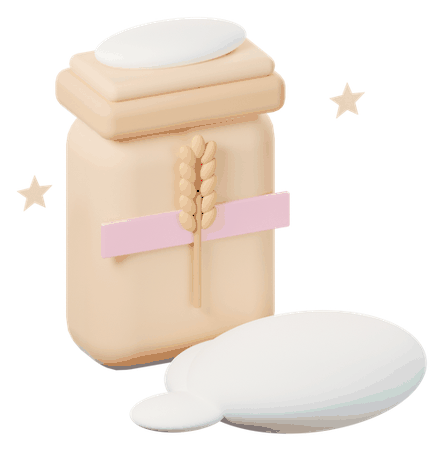
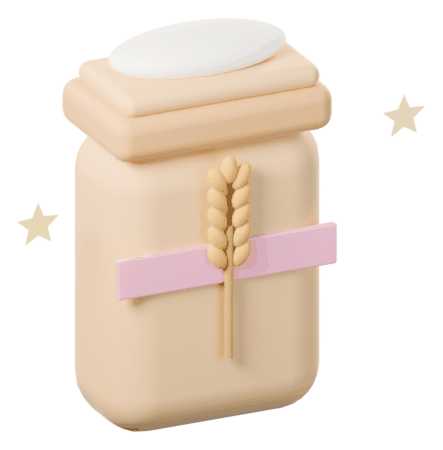
Deploy Unicorn Cafe kid PWA v3.2 (daughter-game fa4e4d8, app/ only; voice-pick + voice-samples excluded)
Claude-Session: https://claude.ai/code/session_01SM53C2WUtb14j3EsNJU8p6

diff --git a/sw.js b/sw.js
@@ -1,5 +1,4 @@
-const VERSION='unicorn-cafe-art-69fd3751b2-pages';
-const PRECACHE = ["CREDITS.md", "art/basket.png", "art/basket_full.png", "art/bg_cafe.png", "art/bg_closing.png", "art/bg_kitchen.png", "art/bg_kitchen_nopan.png", "art/bg_market.png", "art/bg_serve.png", "art/bg_ticket.png", "art/bg_till.png", "art/characters.manifest.json", "art/coin.png", "art/coin_10c.png", "art/coin_25c.png", "art/coin_5c.png", "art/coin_s.png", "art/dish_bun.png", "art/dish_butter.png", "art/dish_can.png", "art/dish_cob.png", "art/dish_cup.png", "art/dish_dip.png", "art/dish_flatbread.png", "art/dish_fruit_salad.png", "art/dish_ham.png", "art/dish_jam.png", "art/dish_mug.png", "art/dish_nut.png", "art/dish_pan.png", "art/dish_pancakes.png", "art/dish_pizza.png", "art/dish_popcorn.png", "art/dish_pot.png", "art/dish_tin.png", "art/dog.manifest.json", "art/dog_sleep_00.png", "art/dog_sleep_01.png", "art/dog_sleep_02.png", "art/dog_sleep_03.png", "art/dog_sleep_04.png", "art/dog_sleep_05.png", "art/dog_sleep_06.png", "art/dog_sleep_07.png", "art/dog_sleep_08.png", "art/dog_sleep_09.png", "art/dog_sleep_10.png", "art/dog_sleep_11.png", "art/dog_wag_00.png", "art/dog_wag_01.png", "art/dog_wag_02.png", "art/dog_wag_03.png", "art/dog_wag_04.png", "art/dog_wag_05.png", "art/dog_wag_06.png", "art/dog_wag_07.png", "art/dog_wag_08.png", "art/dog_wag_09.png", "art/dog_wag_10.png", "art/dog_wag_11.png", "art/dog_wake_00.png", "art/dog_wake_01.png", "art/dog_wake_02.png", "art/dog_wake_03.png", "art/dog_wake_04.png", "art/dog_wake_05.png", "art/dog_wake_06.png", "art/dog_wake_07.png", "art/dog_walk_00.png", "art/dog_walk_01.png", "art/dog_walk_02.png", "art/dog_walk_03.png", "art/dog_walk_04.png", "art/dog_walk_05.png", "art/dog_walk_06.png", "art/dog_walk_07.png", "art/dog_walk_08.png", "art/dog_walk_09.png", "art/dog_walk_10.png", "art/dog_walk_11.png", "art/dog_walk_12.png", "art/dog_walk_13.png", "art/dog_walk_14.png", "art/dog_walk_15.png", "art/girl_cheer_00.png", "art/girl_cheer_01.png", "art/girl_cheer_02.png", "art/girl_cheer_03.png", "art/girl_cheer_04.png", "art/girl_cheer_05.png", "art/girl_cheer_06.png", "art/girl_cheer_07.png", "art/girl_cheer_08.png", "art/girl_cheer_09.png", "art/girl_cheer_10.png", "art/girl_cheer_11.png", "art/girl_idle_00.png", "art/girl_idle_01.png", "art/girl_idle_02.png", "art/girl_idle_03.png", "art/girl_idle_04.png", "art/girl_idle_05.png", "art/girl_idle_06.png", "art/girl_idle_07.png", "art/girl_idle_08.png", "art/girl_idle_09.png", "art/girl_idle_10.png", "art/girl_idle_11.png", "art/girl_stir_00.png", "art/girl_stir_01.png", "art/girl_stir_02.png", "art/girl_stir_03.png", "art/girl_stir_04.png", "art/girl_stir_05.png", "art/girl_stir_06.png", "art/girl_stir_07.png", "art/girl_stir_08.png", "art/girl_stir_09.png", "art/girl_stir_10.png", "art/girl_stir_11.png", "art/girl_think_00.png", "art/girl_think_01.png", "art/girl_think_02.png", "art/girl_think_03.png", "art/girl_think_04.png", "art/girl_think_05.png", "art/girl_wave_00.png", "art/girl_wave_01.png", "art/girl_wave_02.png", "art/girl_wave_03.png", "art/girl_wave_04.png", "art/girl_wave_05.png", "art/girl_wave_06.png", "art/girl_wave_07.png", "art/girl_wave_08.png", "art/girl_wave_09.png", "art/girl_wave_10.png", "art/girl_wave_11.png", "art/item_bun.png", "art/item_can.png", "art/item_cob.png", "art/item_cup.png", "art/item_dip.png", "art/item_ham.png", "art/item_jam.png", "art/item_mug.png", "art/item_nut.png", "art/item_pan.png", "art/item_pot.png", "art/item_tin.png", "art/key_animal_a.png", "art/key_animal_b.png", "art/key_animal_c.png", "art/key_animal_c2.png", "art/key_animal_d.png", "art/key_animal_e.png", "art/key_animal_f.png", "art/key_animal_g.png", "art/kitty_happy_00.png", "art/kitty_happy_01.png", "art/kitty_happy_02.png", "art/kitty_happy_03.png", "art/kitty_happy_04.png", "art/kitty_happy_05.png", "art/kitty_happy_06.png", "art/kitty_happy_07.png", "art/kitty_happy_08.png", "art/kitty_happy_09.png", "art/kitty_happy_10.png", "art/kitty_happy_11.png", "art/kitty_idle_00.png", "art/kitty_idle_01.png", "art/kitty_idle_02.png", "art/kitty_idle_03.png", "art/kitty_idle_04.png", "art/kitty_idle_05.png", "art/kitty_idle_06.png", "art/kitty_idle_07.png", "art/kitty_idle_08.png", "art/kitty_idle_09.png", "art/kitty_idle_10.png", "art/kitty_idle_11.png", "art/kitty_order_00.png", "art/kitty_order_01.png", "art/kitty_order_02.png", "art/kitty_order_03.png", "art/kitty_order_04.png", "art/kitty_order_05.png", "art/kitty_walk_00.png", "art/kitty_walk_01.png", "art/kitty_walk_02.png", "art/kitty_walk_03.png", "art/kitty_walk_04.png", "art/kitty_walk_05.png", "art/kitty_walk_06.png", "art/kitty_walk_07.png", "art/kitty_walk_08.png", "art/kitty_walk_09.png", "art/kitty_walk_10.png", "art/kitty_walk_11.png", "art/kitty_walk_12.png", "art/kitty_walk_13.png", "art/kitty_walk_14.png", "art/kitty_walk_15.png", "art/pan.png", "art/pan_cooking_00.png", "art/pan_cooking_01.png", "art/pan_cooking_02.png", "art/pan_cooking_03.png", "art/pan_cooking_04.png", "art/pan_cooking_05.png", "art/pan_cooking_06.png", "art/pan_cooking_07.png", "art/pat_banana.png", "art/pat_cookie.png", "art/pat_cupcake.png", "art/pat_grape.png", "art/pat_strawberry.png", "art/piano.manifest.json", "art/piano_body.png", "art/pic_bag.png", "art/pic_bed.png", "art/pic_bell.png", "art/pic_bird.png", "art/pic_book.png", "art/pic_box.png", "art/pic_bread.png", "art/pic_cake.png", "art/pic_cap.png", "art/pic_chair.png", "art/pic_chip.png", "art/pic_cod.png", "art/pic_cone.png", "art/pic_cook.png", "art/pic_corn.png", "art/pic_cow.png", "art/pic_cream.png", "art/pic_crisp.png", "art/pic_cube.png", "art/pic_dinner.png", "art/pic_dish.png", "art/pic_dot.png", "art/pic_drink.png", "art/pic_ear.png", "art/pic_egg.png", "art/pic_feet.png", "art/pic_fig.png", "art/pic_fish.png", "art/pic_flour.png", "art/pic_fork.png", "art/pic_hair.png", "art/pic_hat.png", "art/pic_hill.png", "art/pic_ice.png", "art/pic_jar.png", "art/pic_jug.png", "art/pic_king.png", "art/pic_lake.png", "art/pic_lemon.png", "art/pic_lid.png", "art/pic_lunch.png", "art/pic_map.png", "art/pic_mat.png", "art/pic_milk.png", "art/pic_mint.png", "art/pic_moon.png", "art/pic_moth.png", "art/pic_napkin.png", "art/pic_net.png", "art/pic_oats.png", "art/pic_oil.png", "art/pic_pie.png", "art/pic_pig.png", "art/pic_plum.png", "art/pic_rain.png", "art/pic_rat.png", "art/pic_ring.png", "art/pic_rug.png", "art/pic_salt.png", "art/pic_sandwich.png", "art/pic_seed.png", "art/pic_ship.png", "art/pic_shop.png", "art/pic_sock.png", "art/pic_soup.png", "art/pic_stew.png", "art/pic_straw.png", "art/pic_sugar.png", "art/pic_sun.png", "art/pic_sweets.png", "art/pic_tail.png", "art/pic_tap.png", "art/pic_tart.png", "art/pic_tea.png", "art/pic_toast.png", "art/pic_toy.png", "art/pic_tray.png", "art/pic_van.png", "art/pic_water.png", "art/pic_whisk.png", "art/pic_yam.png", "art/pic_yeast.png", "art/pic_zip.png", "art/pictures.manifest.json", "art/plate.png", "art/princess_happy_00.png", "art/princess_happy_01.png", "art/princess_happy_02.png", "art/princess_happy_03.png", "art/princess_happy_04.png", "art/princess_happy_05.png", "art/princess_happy_06.png", "art/princess_happy_07.png", "art/princess_happy_08.png", "art/princess_happy_09.png", "art/princess_happy_10.png", "art/princess_happy_11.png", "art/princess_idle_00.png", "art/princess_idle_01.png", "art/princess_idle_02.png", "art/princess_idle_03.png", "art/princess_idle_04.png", "art/princess_idle_05.png", "art/princess_idle_06.png", "art/princess_idle_07.png", "art/princess_idle_08.png", "art/princess_idle_09.png", "art/princess_idle_10.png", "art/princess_idle_11.png", "art/princess_order_00.png", "art/princess_order_01.png", "art/princess_order_02.png", "art/princess_order_03.png", "art/princess_order_04.png", "art/princess_order_05.png", "art/princess_walk_00.png", "art/princess_walk_01.png", "art/princess_walk_02.png", "art/princess_walk_03.png", "art/princess_walk_04.png", "art/princess_walk_05.png", "art/princess_walk_06.png", "art/princess_walk_07.png", "art/princess_walk_08.png", "art/princess_walk_09.png", "art/princess_walk_10.png", "art/princess_walk_11.png", "art/princess_walk_12.png", "art/princess_walk_13.png", "art/princess_walk_14.png", "art/princess_walk_15.png", "art/props.manifest.json", "art/sets.manifest.json", "art/spoon.png", "art/sticker_00.png", "art/sticker_01.png", "art/sticker_02.png", "art/sticker_03.png", "art/sticker_04.png", "art/sticker_05.png", "art/sticker_06.png", "art/sticker_07.png", "art/sticker_08.png", "art/sticker_09.png", "art/sticker_10.png", "art/sticker_11.png", "art/tenframe_crate.png", "art/ui_back.png", "art/ui_check.png", "art/ui_music.png", "art/ui_music_off.png", "art/ui_settings.png", "art/ui_undo.png", "art/unicorn_happy_00.png", "art/unicorn_happy_01.png", "art/unicorn_happy_02.png", "art/unicorn_happy_03.png", "art/unicorn_happy_04.png", "art/unicorn_happy_05.png", "art/unicorn_happy_06.png", "art/unicorn_happy_07.png", "art/unicorn_happy_08.png", "art/unicorn_happy_09.png", "art/unicorn_happy_10.png", "art/unicorn_happy_11.png", "art/unicorn_idle_00.png", "art/unicorn_idle_01.png", "art/unicorn_idle_02.png", "art/unicorn_idle_03.png", "art/unicorn_idle_04.png", "art/unicorn_idle_05.png", "art/unicorn_idle_06.png", "art/unicorn_idle_07.png", "art/unicorn_idle_08.png", "art/unicorn_idle_09.png", "art/unicorn_idle_10.png", "art/unicorn_idle_11.png", "art/unicorn_order_00.png", "art/unicorn_order_01.png", "art/unicorn_order_02.png", "art/unicorn_order_03.png", "art/unicorn_order_04.png", "art/unicorn_order_05.png", "art/unicorn_walk_00.png", "art/unicorn_walk_01.png", "art/unicorn_walk_02.png", "art/unicorn_walk_03.png", "art/unicorn_walk_04.png", "art/unicorn_walk_05.png", "art/unicorn_walk_06.png", "art/unicorn_walk_07.png", "art/unicorn_walk_08.png", "art/unicorn_walk_09.png", "art/unicorn_walk_10.png", "art/unicorn_walk_11.png", "art/unicorn_walk_12.png", "art/unicorn_walk_13.png", "art/unicorn_walk_14.png", "art/unicorn_walk_15.png", "assets/basket.svg", "assets/book.svg", "assets/bun.svg", "assets/cafe_bg.svg", "assets/can.svg", "assets/chef_girl.svg", "assets/cob.svg", "assets/coin.svg", "assets/cup.svg", "assets/dip.svg", "assets/ham.svg", "assets/icon.png", "assets/jam.svg", "assets/kitchen_bg.svg", "assets/market_bg.svg", "assets/mug.svg", "assets/nut.svg", "assets/pan.svg", "assets/plate.svg", "assets/pot.svg", "assets/sparkle.svg", "assets/spoon.svg", "assets/tin.svg", "assets/trace_bg.svg", "assets/unicorn.svg", "audio/back.mp3", "audio/bell.mp3", "audio/cheer.mp3", "audio/coin.mp3", "audio/piano/A3.mp3", "audio/piano/A4.mp3", "audio/piano/As3.mp3", "audio/piano/As4.mp3", "audio/piano/B3.mp3", "audio/piano/B4.mp3", "audio/piano/C3.mp3", "audio/piano/C4.mp3", "audio/piano/C5.mp3", "audio/piano/Cs3.mp3", "audio/piano/Cs4.mp3", "audio/piano/D3.mp3", "audio/piano/D4.mp3", "audio/piano/Ds3.mp3", "audio/piano/Ds4.mp3", "audio/piano/E3.mp3", "audio/piano/E4.mp3", "audio/piano/F3.mp3", "audio/piano/F4.mp3", "audio/piano/Fs3.mp3", "audio/piano/Fs4.mp3", "audio/piano/G3.mp3", "audio/piano/G4.mp3", "audio/piano/Gs3.mp3", "audio/piano/Gs4.mp3", "audio/plop.mp3", "audio/select.mp3", "audio/sizzle.mp3", "audio/sparkle.mp3", "audio/tap.mp3", "audio/voice/add_one_more.mp3", "audio/voice/altogether.mp3", "audio/voice/animal_alligator.mp3", "audio/voice/animal_bear.mp3", "audio/voice/animal_cat.mp3", "audio/voice/animal_chick.mp3", "audio/voice/animal_duck.mp3", "audio/voice/animal_elephant.mp3", "audio/voice/animal_frog.mp3", "audio/voice/animal_goat.mp3", "audio/voice/another_way.mp3", "audio/voice/beat_intro.mp3", "audio/voice/blend_q.mp3", "audio/voice/buddy_ate.mp3", "audio/voice/buddy_cooking.mp3", "audio/voice/buddy_follow.mp3", "audio/voice/buddy_good.mp3", "audio/voice/buddy_happy.mp3", "audio/voice/buddy_nap.mp3", "audio/voice/buddy_night.mp3", "audio/voice/buddy_shh.mp3", "audio/voice/buddy_woof.mp3", "audio/voice/c_and.mp3", "audio/voice/c_cent_coin.mp3", "audio/voice/c_cents.mp3", "audio/voice/c_coin.mp3", "audio/voice/c_coins.mp3", "audio/voice/c_foodcosts.mp3", "audio/voice/c_itcosts.mp3", "audio/voice/c_more.mp3", "audio/voice/c_please.mp3", "audio/voice/c_putin.mp3", "audio/voice/c_rhymes.mp3", "audio/voice/c_scoop.mp3", "audio/voice/c_scoops.mp3", "audio/voice/c_tapletter.mp3", "audio/voice/c_tapword.mp3", "audio/voice/c_use.mp3", "audio/voice/c_weneed.mp3", "audio/voice/c_youhave.mp3", "audio/voice/card_intro.mp3", "audio/voice/cmp_fewer.mp3", "audio/voice/cmp_more.mp3", "audio/voice/cmp_same.mp3", "audio/voice/coin_tap.mp3", "audio/voice/compose_q.mp3", "audio/voice/cook_intro.mp3", "audio/voice/count_intro.mp3", "audio/voice/demo.mp3", "audio/voice/drag_pan.mp3", "audio/voice/drag_pan_first.mp3", "audio/voice/flash_q.mp3", "audio/voice/follow_intro.mp3", "audio/voice/free_intro.mp3", "audio/voice/give_change.mp3", "audio/voice/hide_q.mp3", "audio/voice/highlow_q.mp3", "audio/voice/hint_count.mp3", "audio/voice/hint_pay.mp3", "audio/voice/how_many.mp3", "audio/voice/item_bun.mp3", "audio/voice/item_can.mp3", "audio/voice/item_cob.mp3", "audio/voice/item_cup.mp3", "audio/voice/item_dip.mp3", "audio/voice/item_ham.mp3", "audio/voice/item_jam.mp3", "audio/voice/item_mug.mp3", "audio/voice/item_nut.mp3", "audio/voice/item_pan.mp3", "audio/voice/item_pot.mp3", "audio/voice/item_tin.mp3", "audio/voice/items_bun.mp3", "audio/voice/items_can.mp3", "audio/voice/items_cob.mp3", "audio/voice/items_cup.mp3", "audio/voice/items_dip.mp3", "audio/voice/items_ham.mp3", "audio/voice/items_jam.mp3", "audio/voice/items_mug.mp3", "audio/voice/items_nut.mp3", "audio/voice/items_pan.mp3", "audio/voice/items_pot.mp3", "audio/voice/items_tin.mp3", "audio/voice/kitchen_tap.mp3", "audio/voice/kitchen_word.mp3", "audio/voice/lines.json", "audio/voice/list.mp3", "audio/voice/lovely.mp3", "audio/voice/manifest.json", "audio/voice/new_day.mp3", "audio/voice/note_a.mp3", "audio/voice/note_b.mp3", "audio/voice/note_c.mp3", "audio/voice/note_d.mp3", "audio/voice/note_e.mp3", "audio/voice/note_f.mp3", "audio/voice/note_g.mp3", "audio/voice/num_0.mp3", "audio/voice/num_1.mp3", "audio/voice/num_10.mp3", "audio/voice/num_11.mp3", "audio/voice/num_12.mp3", "audio/voice/num_13.mp3", "audio/voice/num_14.mp3", "audio/voice/num_15.mp3", "audio/voice/num_16.mp3", "audio/voice/num_17.mp3", "audio/voice/num_18.mp3", "audio/voice/num_19.mp3", "audio/voice/num_2.mp3", "audio/voice/num_20.mp3", "audio/voice/num_3.mp3", "audio/voice/num_30.mp3", "audio/voice/num_4.mp3", "audio/voice/num_40.mp3", "audio/voice/num_5.mp3", "audio/voice/num_50.mp3", "audio/voice/num_6.mp3", "audio/voice/num_7.mp3", "audio/voice/num_8.mp3", "audio/voice/num_9.mp3", "audio/voice/path_roll.mp3", "audio/voice/path_where.mp3", "audio/voice/pattern_q.mp3", "audio/voice/pay_cents.mp3", "audio/voice/pay_intro.mp3", "audio/voice/pay_one_more.mp3", "audio/voice/piano_done.mp3", "audio/voice/piano_listen.mp3", "audio/voice/piano_turn.mp3", "audio/voice/praise_beat.mp3", "audio/voice/praise_blend.mp3", "audio/voice/praise_count.mp3", "audio/voice/praise_listen.mp3", "audio/voice/praise_memory.mp3", "audio/voice/praise_path.mp3", "audio/voice/praise_rhyme.mp3", "audio/voice/praise_sound.mp3", "audio/voice/praise_try.mp3", "audio/voice/ps_a.mp3", "audio/voice/ps_a_e.mp3", "audio/voice/ps_ai.mp3", "audio/voice/ps_air.mp3", "audio/voice/ps_ar.mp3", "audio/voice/ps_aw.mp3", "audio/voice/ps_ay.mp3", "audio/voice/ps_b.mp3", "audio/voice/ps_c.mp3", "audio/voice/ps_ch.mp3", "audio/voice/ps_ck.mp3", "audio/voice/ps_d.mp3", "audio/voice/ps_e.mp3", "audio/voice/ps_ea.mp3", "audio/voice/ps_ear.mp3", "audio/voice/ps_ee.mp3", "audio/voice/ps_er.mp3", "audio/voice/ps_ew.mp3", "audio/voice/ps_f.mp3", "audio/voice/ps_ff.mp3", "audio/voice/ps_g.mp3", "audio/voice/ps_h.mp3", "audio/voice/ps_i.mp3", "audio/voice/ps_i_e.mp3", "audio/voice/ps_ie.mp3", "audio/voice/ps_igh.mp3", "audio/voice/ps_ir.mp3", "audio/voice/ps_j.mp3", "audio/voice/ps_k.mp3", "audio/voice/ps_l.mp3", "audio/voice/ps_ll.mp3", "audio/voice/ps_m.mp3", "audio/voice/ps_n.mp3", "audio/voice/ps_ng.mp3", "audio/voice/ps_o.mp3", "audio/voice/ps_o_e.mp3", "audio/voice/ps_oa.mp3", "audio/voice/ps_oi.mp3", "audio/voice/ps_oo.mp3", "audio/voice/ps_or.mp3", "audio/voice/ps_ou.mp3", "audio/voice/ps_ow.mp3", "audio/voice/ps_oy.mp3", "audio/voice/ps_p.mp3", "audio/voice/ps_q.mp3", "audio/voice/ps_qu.mp3", "audio/voice/ps_r.mp3", "audio/voice/ps_s.mp3", "audio/voice/ps_sh.mp3", "audio/voice/ps_ss.mp3", "audio/voice/ps_t.mp3", "audio/voice/ps_th.mp3", "audio/voice/ps_u.mp3", "audio/voice/ps_u_e.mp3", "audio/voice/ps_ue.mp3", "audio/voice/ps_ur.mp3", "audio/voice/ps_ure.mp3", "audio/voice/ps_v.mp3", "audio/voice/ps_w.mp3", "audio/voice/ps_wh.mp3", "audio/voice/ps_x.mp3", "audio/voice/ps_y.mp3", "audio/voice/ps_z.mp3", "audio/voice/ps_zz.mp3", "audio/voice/read_blend.mp3", "audio/voice/read_got.mp3", "audio/voice/read_listen.mp3", "audio/voice/read_note.mp3", "audio/voice/read_pick.mp3", "audio/voice/read_tap_dots.mp3", "audio/voice/recipe_butter.mp3", "audio/voice/recipe_cookies.mp3", "audio/voice/recipe_flatbread.mp3", "audio/voice/recipe_fruit_salad.mp3", "audio/voice/recipe_jam_toast.mp3", "audio/voice/recipe_lemonade.mp3", "audio/voice/recipe_muffins.mp3", "audio/voice/recipe_new.mp3", "audio/voice/recipe_pancakes.mp3", "audio/voice/recipe_pizza.mp3", "audio/voice/recipe_popcorn.mp3", "audio/voice/recipe_simple_bread.mp3", "audio/voice/recipe_soup.mp3", "audio/voice/reward.mp3", "audio/voice/rhythm_intro.mp3", "audio/voice/say_I.mp3", "audio/voice/say_all.mp3", "audio/voice/say_are.mp3", "audio/voice/say_asked.mp3", "audio/voice/say_bag.mp3", "audio/voice/say_be.mp3", "audio/voice/say_bed.mp3", "audio/voice/say_bell.mp3", "audio/voice/say_bird.mp3", "audio/voice/say_book.mp3", "audio/voice/say_box.mp3", "audio/voice/say_bread.mp3", "audio/voice/say_cake.mp3", "audio/voice/say_called.mp3", "audio/voice/say_cap.mp3", "audio/voice/say_chair.mp3", "audio/voice/say_chip.mp3", "audio/voice/say_cod.mp3", "audio/voice/say_come.mp3", "audio/voice/say_cone.mp3", "audio/voice/say_cook.mp3", "audio/voice/say_corn.mp3", "audio/voice/say_could.mp3", "audio/voice/say_cow.mp3", "audio/voice/say_cream.mp3", "audio/voice/say_crisp.mp3", "audio/voice/say_cube.mp3", "audio/voice/say_dinner.mp3", "audio/voice/say_dish.mp3", "audio/voice/say_do.mp3", "audio/voice/say_dog.mp3", "audio/voice/say_dot.mp3", "audio/voice/say_drink.mp3", "audio/voice/say_ear.mp3", "audio/voice/say_egg.mp3", "audio/voice/say_feet.mp3", "audio/voice/say_fig.mp3", "audio/voice/say_fish.mp3", "audio/voice/say_flour.mp3", "audio/voice/say_fork.mp3", "audio/voice/say_go.mp3", "audio/voice/say_grape.mp3", "audio/voice/say_hair.mp3", "audio/voice/say_hat.mp3", "audio/voice/say_have.mp3", "audio/voice/say_he.mp3", "audio/voice/say_her.mp3", "audio/voice/say_hill.mp3", "audio/voice/say_ice.mp3", "audio/voice/say_jar.mp3", "audio/voice/say_jug.mp3", "audio/voice/say_king.mp3", "audio/voice/say_lake.mp3", "audio/voice/say_lemon.mp3", "audio/voice/say_lid.mp3", "audio/voice/say_like.mp3", "audio/voice/say_little.mp3", "audio/voice/say_lunch.mp3", "audio/voice/say_map.mp3", "audio/voice/say_mat.mp3", "audio/voice/say_me.mp3", "audio/voice/say_milk.mp3", "audio/voice/say_mint.mp3", "audio/voice/say_moon.mp3", "audio/voice/say_moth.mp3", "audio/voice/say_my.mp3", "audio/voice/say_net.mp3", "audio/voice/say_no.mp3", "audio/voice/say_oats.mp3", "audio/voice/say_oh.mp3", "audio/voice/say_oil.mp3", "audio/voice/say_one.mp3", "audio/voice/say_out.mp3", "audio/voice/say_people.mp3", "audio/voice/say_pie.mp3", "audio/voice/say_pig.mp3", "audio/voice/say_plate.mp3", "audio/voice/say_plum.mp3", "audio/voice/say_rain.mp3", "audio/voice/say_rat.mp3", "audio/voice/say_ring.mp3", "audio/voice/say_rug.mp3", "audio/voice/say_said.mp3", "audio/voice/say_salt.mp3", "audio/voice/say_seed.mp3", "audio/voice/say_she.mp3", "audio/voice/say_ship.mp3", "audio/voice/say_shop.mp3", "audio/voice/say_so.mp3", "audio/voice/say_sock.mp3", "audio/voice/say_some.mp3", "audio/voice/say_soup.mp3", "audio/voice/say_stew.mp3", "audio/voice/say_straw.mp3", "audio/voice/say_sugar.mp3", "audio/voice/say_sun.mp3", "audio/voice/say_sweets.mp3", "audio/voice/say_tail.mp3", "audio/voice/say_tap.mp3", "audio/voice/say_tart.mp3", "audio/voice/say_tea.mp3", "audio/voice/say_the.mp3", "audio/voice/say_their.mp3", "audio/voice/say_there.mp3", "audio/voice/say_they.mp3", "audio/voice/say_to.mp3", "audio/voice/say_toast.mp3", "audio/voice/say_toy.mp3", "audio/voice/say_tray.mp3", "audio/voice/say_van.mp3", "audio/voice/say_was.mp3", "audio/voice/say_water.mp3", "audio/voice/say_we.mp3", "audio/voice/say_were.mp3", "audio/voice/say_what.mp3", "audio/voice/say_when.mp3", "audio/voice/say_whisk.mp3", "audio/voice/say_yam.mp3", "audio/voice/say_yeast.mp3", "audio/voice/say_you.mp3", "audio/voice/say_zip.mp3", "audio/voice/scoop_that_many.mp3", "audio/voice/scoop_tick.mp3", "audio/voice/serve_plate.mp3", "audio/voice/serve_thanks.mp3", "audio/voice/session_goodbye.mp3", "audio/voice/session_winddown.mp3", "audio/voice/shape_circle.mp3", "audio/voice/shape_q.mp3", "audio/voice/shape_rectangle.mp3", "audio/voice/shape_square.mp3", "audio/voice/shape_triangle.mp3", "audio/voice/shelf_line.mp3", "audio/voice/sing_along.mp3", "audio/voice/sparkle_deco.mp3", "audio/voice/sticker_book.mp3", "audio/voice/sticker_book_v2.mp3", "audio/voice/sticker_surprise.mp3", "audio/voice/stir.mp3", "audio/voice/stir_done.mp3", "audio/voice/tf_double.mp3", "audio/voice/tf_make10.mp3", "audio/voice/tf_teen.mp3", "audio/voice/ticket_pencil.mp3", "audio/voice/ticket_start.mp3", "audio/voice/trace_again.mp3", "audio/voice/trace_copy.mp3", "audio/voice/trace_hear_word.mp3", "audio/voice/trace_hint.mp3", "audio/voice/trace_intro.mp3", "audio/voice/trace_memory.mp3", "audio/voice/trace_study.mp3", "audio/voice/trace_to_add.mp3", "audio/voice/wait.mp3", "audio/voice/watch_count.mp3", "audio/voice/watch_me.mp3", "audio/voice/welcome.mp3", "audio/voice/your_turn.mp3", "config.json", "content/assets.json", "content/curriculum.json", "content/glyphs.json", "content/prompts.json", "content/recipes.json", "content/words.json", "fallback/cafe.jpg", "fallback/girl.png", "fallback/unicorn.png", "index.html", "manifest.webmanifest", "scene3d/models.mjs", "scene3d/scene.mjs", "scene3d/vendor/LICENSE.md", "scene3d/vendor/three-r170.mjs", "src/adapt.mjs", "src/art.mjs", "src/audio.mjs", "src/curriculum.mjs", "src/flow.mjs", "src/fx.mjs", "src/kitchen.mjs", "src/lines.mjs", "src/main.mjs", "src/mastery.mjs", "src/math.mjs", "src/maths.mjs", "src/music.mjs", "src/piano-audio.mjs", "src/piano.mjs", "src/progress.mjs", "src/reading.mjs", "src/rewards.mjs", "src/session.mjs", "src/silent.mjs", "src/stage.mjs", "src/trace.mjs", "src/unlock.mjs", "src/voice.mjs", "style.css"];
+const VERSION='unicorn-cafe-art-79b4ef9f8d-pages';
 // Everything except app/art/** must cache or the install fails (and retries next visit); art is best-effort per file, so one slow PNG never blocks the café.
 // Regenerate PRECACHE + VERSION with: node tools/gen-sw.mjs  (after any file is added to app/)
 self.addEventListener('install',event=>{event.waitUntil(caches.open(VERSION).then(async cache=>{const must=PRECACHE.filter(f=>!f.startsWith('art/')),soft=PRECACHE.filter(f=>f.startsWith('art/'));await cache.addAll(must);await Promise.allSettled(soft.map(f=>cache.add(f)));}).then(()=>self.skipWaiting()));});

diff --git a/style.css b/style.css
@@ -337,3 +337,4 @@ img.followbasket{width:auto;height:auto;max-height:200px;min-width:0;max-width:6
 .startover.holding .so-fill{animation:sofill var(--hold,2s) linear forwards}
 .startover .so-text{position:relative;z-index:1}
 @keyframes sofill{to{width:100%}}
+.startover-box{padding-right:104px}.adult h1{padding-right:104px}
